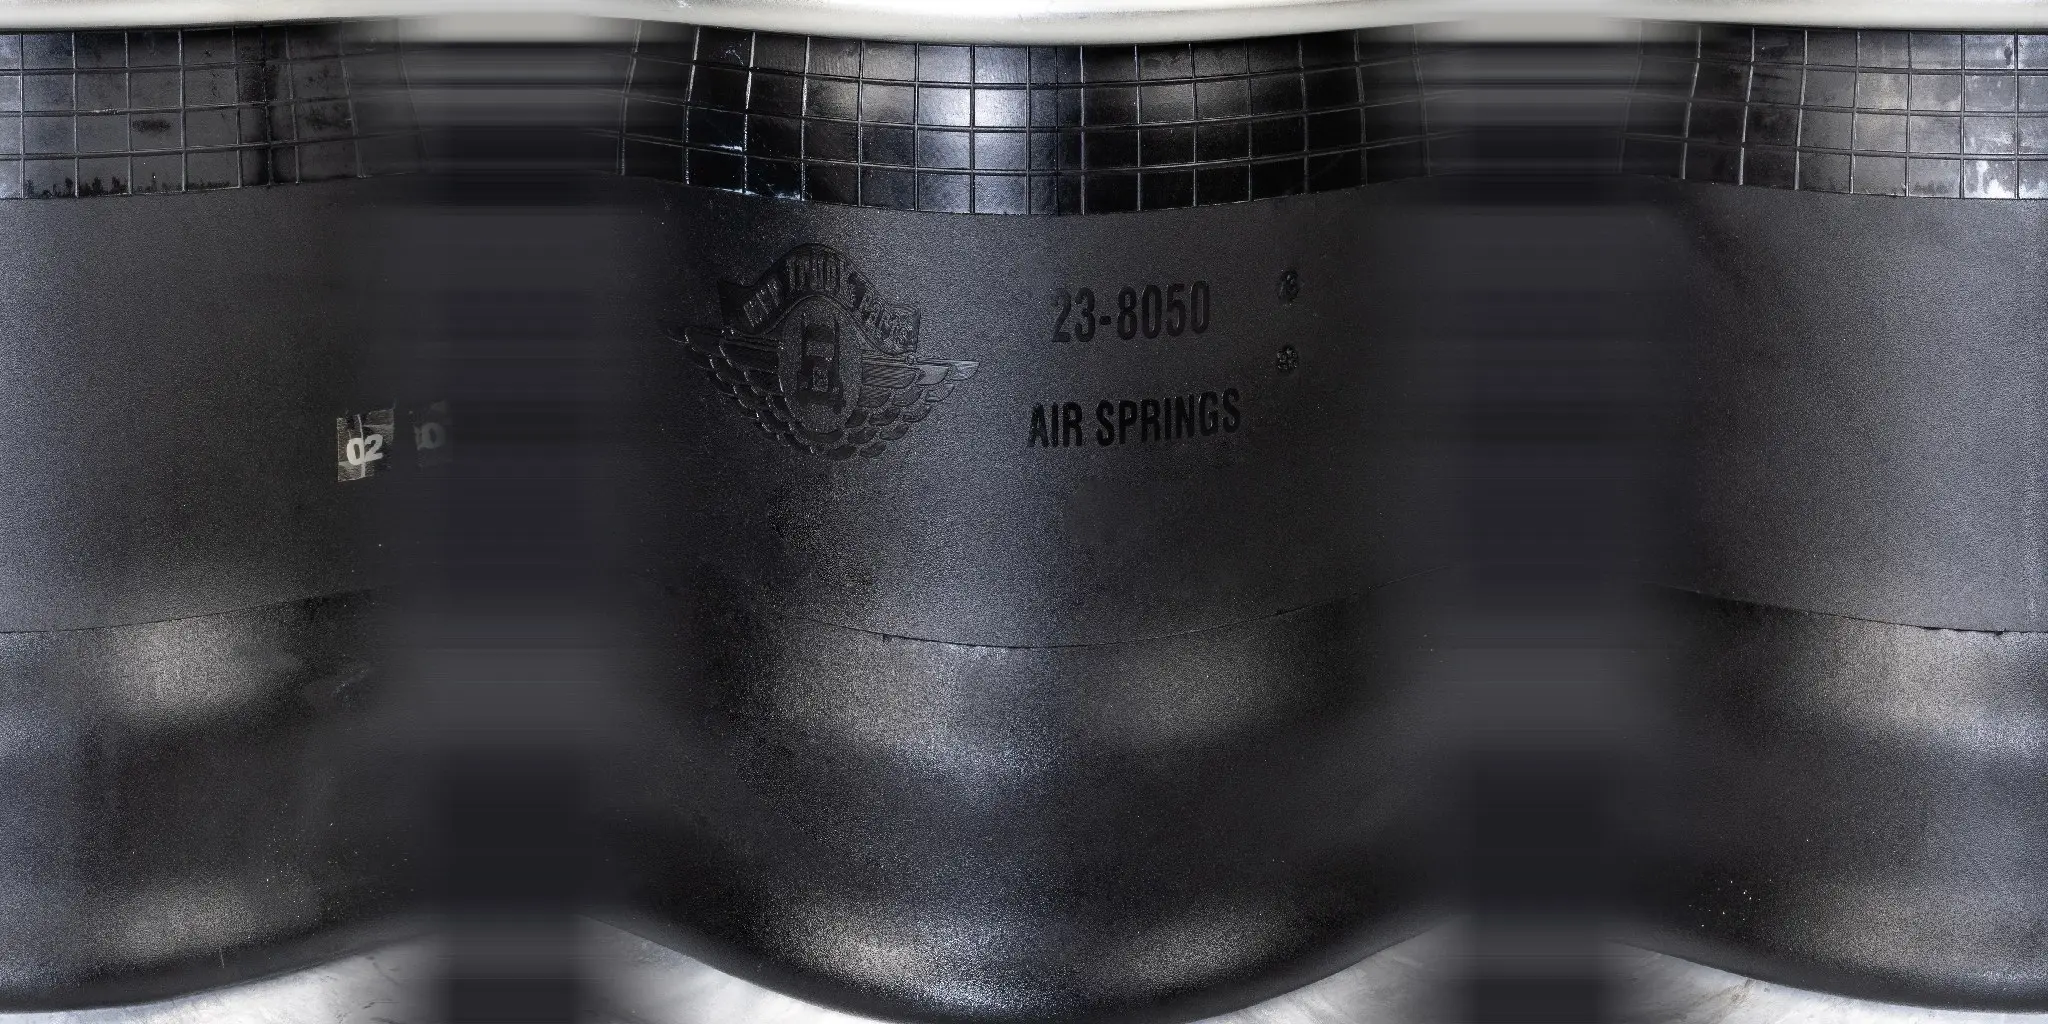
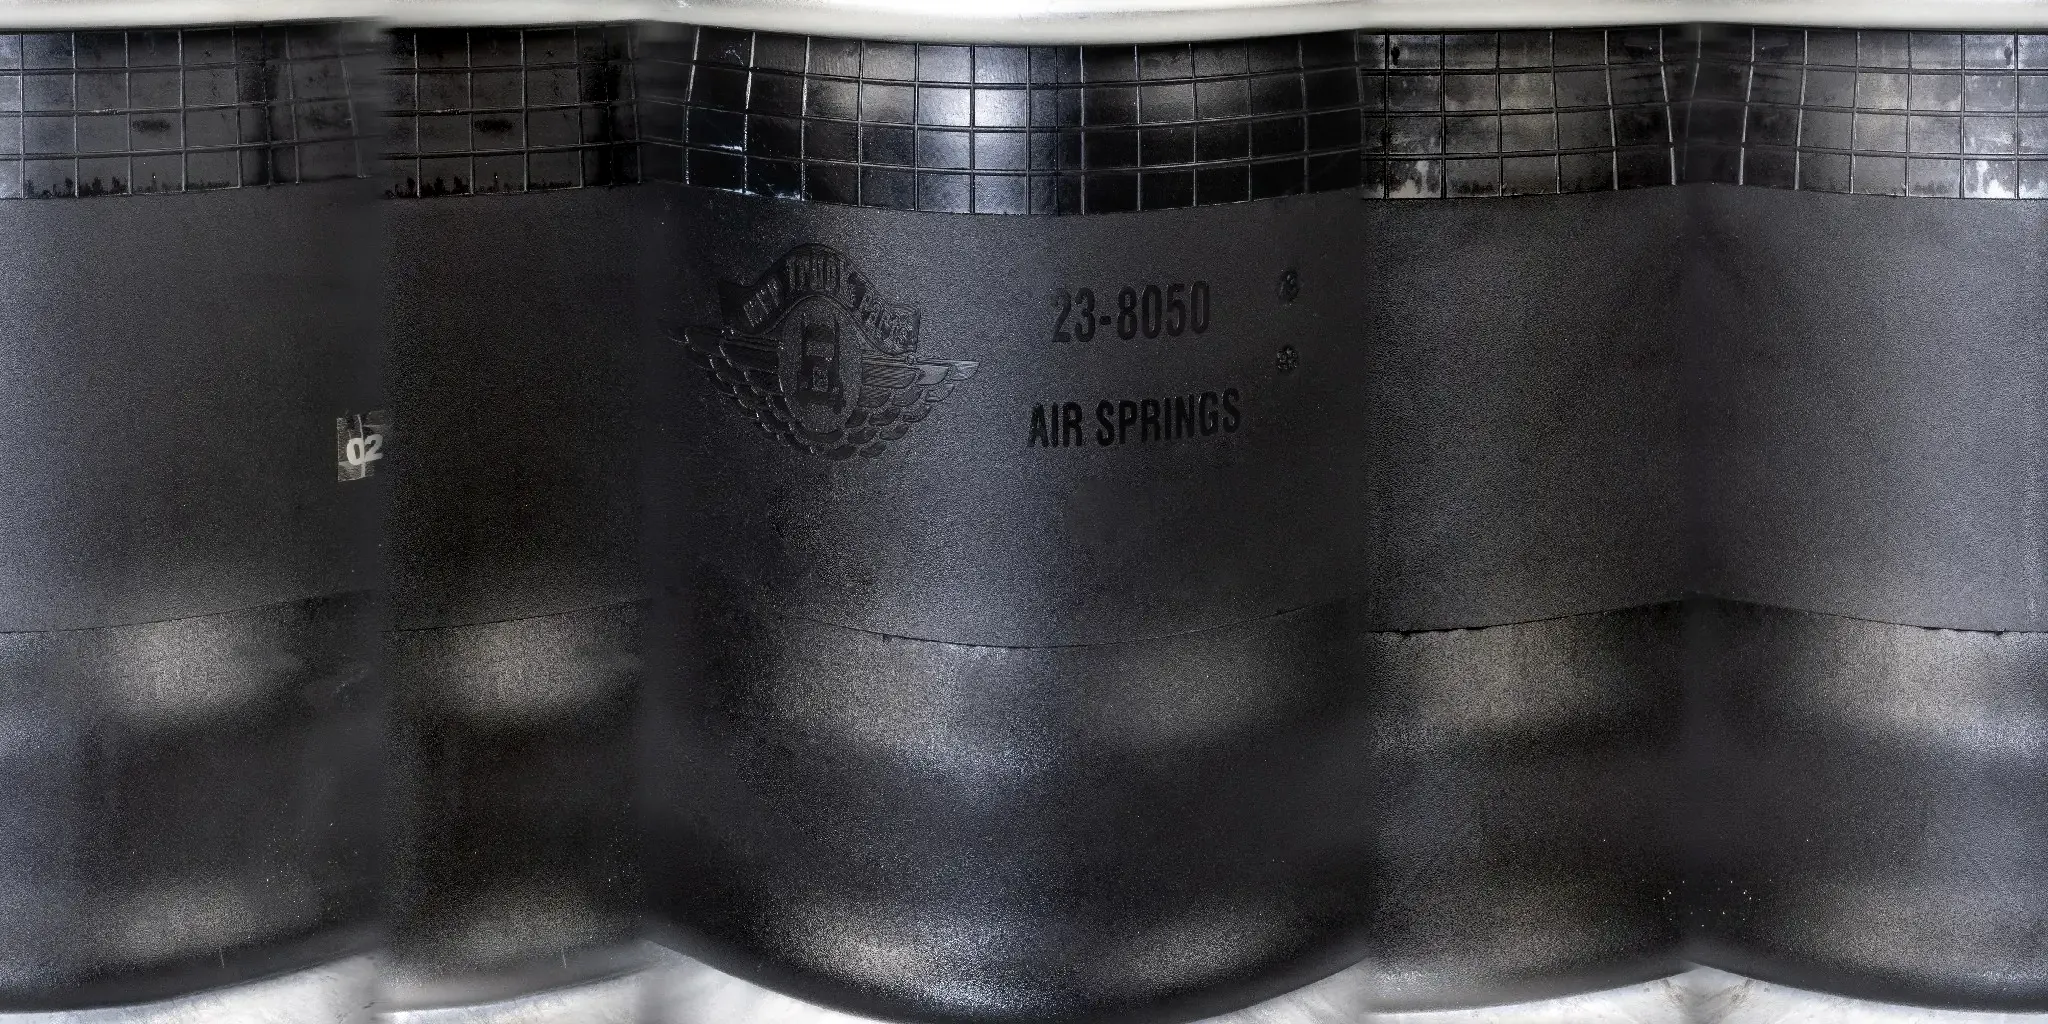
3D air spring: real rubber texture where the photos didn't reach
The side texture of 23-8050 had two blurred strips between the front and
back photos. They are filled with plain stretches of the back photo
(mirrored next to it), shaded row by row to meet the photos on each
side; the logo, part number and grid pattern are untouched. Texture and
viewer URLs carry new version tags so cached copies are not reused.

Claude-Session: https://claude.ai/code/session_01J7xySg1UCvVabx4Bmd5aU2

Changed region(s): [[0.6562, 0.0, 0.8438, 1.0], [0.1875, 0.0, 0.3125, 1.0]]

diff --git a/index.html b/index.html
@@ -11,16 +11,16 @@
   <link rel="preconnect" href="https://fonts.googleapis.com">
   <link rel="preconnect" href="https://fonts.gstatic.com" crossorigin>
   <link rel="stylesheet" href="https://fonts.googleapis.com/css2?family=Barlow+Condensed:wght@600;700&family=Barlow:wght@400;500;600&family=IBM+Plex+Mono:wght@500;600&display=swap">
-  <link rel="stylesheet" href="css/site.css?v=20261024b">
-  <script src="js/config.js?v=20261024b" defer></script>
-  <script src="js/data.js?v=20261024b" defer></script>
-  <script src="js/common.js?v=20261024b" defer></script>
-  <script src="js/hero-video.js?v=20261024b" defer></script>
-  <script src="js/xref.js?v=20261024b" defer></script>
-  <script src="js/route-map.js?v=20261024b" defer></script>
-  <script src="js/lines-drive.js?v=20261024b" defer></script>
+  <link rel="stylesheet" href="css/site.css?v=20261024c">
+  <script src="js/config.js?v=20261024c" defer></script>
+  <script src="js/data.js?v=20261024c" defer></script>
+  <script src="js/common.js?v=20261024c" defer></script>
+  <script src="js/hero-video.js?v=20261024c" defer></script>
+  <script src="js/xref.js?v=20261024c" defer></script>
+  <script src="js/route-map.js?v=20261024c" defer></script>
+  <script src="js/lines-drive.js?v=20261024c" defer></script>
   <script type="importmap">{ "imports": { "three": "./js/vendor/three/three.module.min.js" } }</script>
-  <script type="module" src="js/viewer3d-boot.js?v=20261024b"></script>
+  <script type="module" src="js/viewer3d-boot.js?v=20261024c"></script>
 </head>
 <body>
 <a class="skip-link" href="#main">Skip to content</a>

diff --git a/products.html b/products.html
@@ -11,12 +11,12 @@
   <link rel="preconnect" href="https://fonts.googleapis.com">
   <link rel="preconnect" href="https://fonts.gstatic.com" crossorigin>
   <link rel="stylesheet" href="https://fonts.googleapis.com/css2?family=Barlow+Condensed:wght@600;700&family=Barlow:wght@400;500;600&family=IBM+Plex+Mono:wght@500;600&display=swap">
-  <link rel="stylesheet" href="css/site.css?v=20261024b">
-  <script src="js/config.js?v=20261024b" defer></script>
-  <script src="js/data.js?v=20261024b" defer></script>
-  <script src="js/common.js?v=20261024b" defer></script>
-  <script src="js/xref.js?v=20261024b" defer></script>
-  <script src="js/catalog.js?v=20261024b" defer></script>
+  <link rel="stylesheet" href="css/site.css?v=20261024c">
+  <script src="js/config.js?v=20261024c" defer></script>
+  <script src="js/data.js?v=20261024c" defer></script>
+  <script src="js/common.js?v=20261024c" defer></script>
+  <script src="js/xref.js?v=20261024c" defer></script>
+  <script src="js/catalog.js?v=20261024c" defer></script>
 </head>
 <body>
 <a class="skip-link" href="#main">Skip to content</a>

diff --git a/product.html b/product.html
@@ -11,12 +11,12 @@
   <link rel="preconnect" href="https://fonts.googleapis.com">
   <link rel="preconnect" href="https://fonts.gstatic.com" crossorigin>
   <link rel="stylesheet" href="https://fonts.googleapis.com/css2?family=Barlow+Condensed:wght@600;700&family=Barlow:wght@400;500;600&family=IBM+Plex+Mono:wght@500;600&display=swap">
-  <link rel="stylesheet" href="css/site.css?v=20261024b">
-  <script src="js/config.js?v=20261024b" defer></script>
-  <script src="js/data.js?v=20261024b" defer></script>
-  <script src="js/common.js?v=20261024b" defer></script>
+  <link rel="stylesheet" href="css/site.css?v=20261024c">
+  <script src="js/config.js?v=20261024c" defer></script>
+  <script src="js/data.js?v=20261024c" defer></script>
+  <script src="js/common.js?v=20261024c" defer></script>
   <script type="importmap">{ "imports": { "three": "./js/vendor/three/three.module.min.js" } }</script>
-  <script src="js/product.js?v=20261024b" defer></script>
+  <script src="js/product.js?v=20261024c" defer></script>
 </head>
 <body>
 <a class="skip-link" href="#main">Skip to content</a>

diff --git a/distributors.html b/distributors.html
@@ -11,11 +11,11 @@
   <link rel="preconnect" href="https://fonts.googleapis.com">
   <link rel="preconnect" href="https://fonts.gstatic.com" crossorigin>
   <link rel="stylesheet" href="https://fonts.googleapis.com/css2?family=Barlow+Condensed:wght@600;700&family=Barlow:wght@400;500;600&family=IBM+Plex+Mono:wght@500;600&display=swap">
-  <link rel="stylesheet" href="css/site.css?v=20261024b">
-  <script src="js/config.js?v=20261024b" defer></script>
-  <script src="js/data.js?v=20261024b" defer></script>
-  <script src="js/common.js?v=20261024b" defer></script>
-  <script src="js/distributor-form.js?v=20261024b" defer></script>
+  <link rel="stylesheet" href="css/site.css?v=20261024c">
+  <script src="js/config.js?v=20261024c" defer></script>
+  <script src="js/data.js?v=20261024c" defer></script>
+  <script src="js/common.js?v=20261024c" defer></script>
+  <script src="js/distributor-form.js?v=20261024c" defer></script>
 </head>
 <body>
 <a class="skip-link" href="#main">Skip to content</a>

diff --git a/about.html b/about.html
@@ -11,10 +11,10 @@
   <link rel="preconnect" href="https://fonts.googleapis.com">
   <link rel="preconnect" href="https://fonts.gstatic.com" crossorigin>
   <link rel="stylesheet" href="https://fonts.googleapis.com/css2?family=Barlow+Condensed:wght@600;700&family=Barlow:wght@400;500;600&family=IBM+Plex+Mono:wght@500;600&display=swap">
-  <link rel="stylesheet" href="css/site.css?v=20261024b">
-  <script src="js/config.js?v=20261024b" defer></script>
-  <script src="js/data.js?v=20261024b" defer></script>
-  <script src="js/common.js?v=20261024b" defer></script>
+  <link rel="stylesheet" href="css/site.css?v=20261024c">
+  <script src="js/config.js?v=20261024c" defer></script>
+  <script src="js/data.js?v=20261024c" defer></script>
+  <script src="js/common.js?v=20261024c" defer></script>
 </head>
 <body>
 <a class="skip-link" href="#main">Skip to content</a>

diff --git a/js/viewer3d.js b/js/viewer3d.js
@@ -40,7 +40,7 @@ function buildSpring(m, tex, mats) {
   const spring = new THREE.Group();
   const s = m.plate.r;
 
-  const rubber = new THREE.MeshStandardMaterial({ map: tex(`assets/3d/${m.part}-side.webp`), color: new THREE.Color(1.3, 1.3, 1.3), roughness: 0.6, envMapIntensity: 0.45 });
+  const rubber = new THREE.MeshStandardMaterial({ map: tex(`assets/3d/${m.part}-side.webp?v=2`), color: new THREE.Color(1.3, 1.3, 1.3), roughness: 0.6, envMapIntensity: 0.45 });
   spring.add(new THREE.Mesh(latheByHeight(m.rubber), rubber));
   spring.add(new THREE.Mesh(lathe(m.piston), m.pistonMaterial === "metal" ? mats.alu : mats.plastic));
   spring.add(new THREE.Mesh(lathe(m.plate.rim), mats.steel));

diff --git a/js/product.js b/js/product.js
@@ -44,7 +44,7 @@
       host.querySelectorAll(".legend, .units-note").forEach((el) => (el.hidden = tab.id === "tab-3d"));
       if (tab.id === "tab-3d" && !loaded) {
         loaded = true;
-        import("./viewer3d.js")
+        import("./viewer3d.js?v=2")
           .then((m) => m.mountViewer(panel3d, p.mvp))
           .catch((err) => { console.error(err); panel3d.innerHTML = '<p class="notice">The 3D view could not be loaded on this device.</p>'; });
       }

diff --git a/js/viewer3d-boot.js b/js/viewer3d-boot.js
@@ -9,7 +9,7 @@ const hasWebGL = (() => {
   }
 })();
 if (host && hasWebGL) {
-  import("./viewer3d.js")
+  import("./viewer3d.js?v=2")
     .then((m) => m.mountViewer(host, host.dataset.part))
     .catch((err) => console.error("3D viewer failed to load", err));
 } else if (host) {
